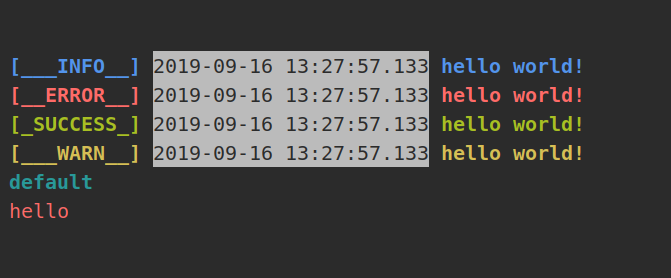
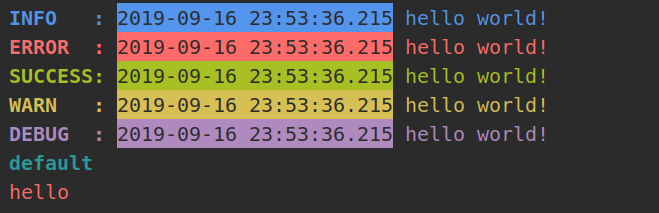
ad

diff --git a/colour_printing/custom/pen_box.py b/colour_printing/custom/pen_box.py
@@ -5,6 +5,7 @@ default_info = "info"
 default_warn = "warn"
 default_success = "success"
 default_error = "error"
+default_debug = "debug"
 
 
 class ColourPrint:
@@ -25,20 +26,24 @@ class ColourPrint:
 
     def __default_setting(self):
         self.info = Markers(default_info) \
-            .flag_style(mode=Mode.BOLD, fore=Fore.BLUE).time_style(mode=Mode.INVERT).message_style(mode=Mode.BOLD,
-                                                                                                   fore=Fore.BLUE)
+            .flag_style(mode=Mode.BOLD, fore=Fore.BLUE).time_style(mode=Mode.INVERT, fore=Fore.BLUE).message_style(
+            fore=Fore.BLUE)
 
         self.warn = Markers(default_warn) \
-            .flag_style(mode=Mode.BOLD, fore=Fore.YELLOW).time_style(mode=Mode.INVERT).message_style(mode=Mode.BOLD,
-                                                                                                     fore=Fore.YELLOW)
+            .flag_style(mode=Mode.BOLD, fore=Fore.YELLOW).time_style(mode=Mode.INVERT, fore=Fore.YELLOW).message_style(
+            fore=Fore.YELLOW)
 
         self.success = Markers(default_success) \
-            .flag_style(mode=Mode.BOLD, fore=Fore.GREEN).time_style(mode=Mode.INVERT).message_style(mode=Mode.BOLD,
-                                                                                                    fore=Fore.GREEN)
+            .flag_style(mode=Mode.BOLD, fore=Fore.GREEN).time_style(mode=Mode.INVERT, fore=Fore.GREEN).message_style(
+            fore=Fore.GREEN)
 
         self.error = Markers(default_error) \
-            .flag_style(mode=Mode.BOLD, fore=Fore.RED).time_style(mode=Mode.INVERT).message_style(mode=Mode.BOLD,
-                                                                                                  fore=Fore.RED)
+            .flag_style(mode=Mode.BOLD, fore=Fore.RED).time_style(mode=Mode.INVERT, fore=Fore.RED).message_style(
+            fore=Fore.RED)
+
+        self.debug = Markers(default_debug) \
+            .flag_style(mode=Mode.BOLD, fore=Fore.PURPLE).time_style(mode=Mode.INVERT, fore=Fore.PURPLE).message_style(
+            fore=Fore.PURPLE)
 
     def __str__(self):
         return """

diff --git a/colour_printing/custom/markers.py b/colour_printing/custom/markers.py
@@ -17,8 +17,8 @@ class Markers:
         self.__cal_flag_len()
 
     def __cal_flag_len(self):
-        if Markers.__flag_len <= len(self.__flag_name):
-            Markers.__flag_len = len(self.__flag_name) + 2
+        if Markers.__flag_len < len(self.__flag_name):
+            Markers.__flag_len = len(self.__flag_name)
 
     def message_style(self, mode='', fore='', back=''):
         self.__config[MESSAGE_STYLE] = setting(mode=mode, fore=fore, back=back)
@@ -36,7 +36,7 @@ class Markers:
         message_style = self.__config.get(MESSAGE_STYLE, setting())
         time_style = self.__config.get(TIME_STYLE, setting())
         flag_style = self.__config.get(FLAG_STYLE, setting())
-        flag = '{0}{1}{2}'.format(flag_style[0], f"[{self.__flag_name.center(self.__flag_len, '_')}]", flag_style[1])
+        flag = '{0}{1}:{2}'.format(flag_style[0], f"{self.__flag_name.ljust(self.__flag_len, ' ')}", flag_style[1])
         time = '{0}{1}{2}'.format(time_style[0], self.__get_time(), time_style[1])
         return flag, time, message_style
 

diff --git a/test/test1.py b/test/test1.py
@@ -4,11 +4,11 @@ from colour_printing import cprint
 
 class MyColour(ColourPrint):
     def custom(self):
-        self.debug = self.Markers('debug').flag_style(fore=Fore.PURPLE, mode=Mode.HIDE).time_style(
+        self.test = self.Markers('test').flag_style(fore=Fore.PURPLE, mode=Mode.HIDE).time_style(
             mode=Mode.INVERT).message_style(
             fore=Fore.YELLOW)
 
 
 echo = MyColour()
 cprint(echo, fore=Fore.CYAN)
-echo.debug('hello world!')
+echo.test('hello world!')

diff --git a/test/test2.py b/test/test2.py
@@ -1,15 +1,18 @@
+import time
+
 from colour_printing import log, Switch, cprint, Back, Fore, Mode
 
 log.info("hello world!")
+# Switch.signal=False #关闭
 
 # Switch.filter.append('SUCCESS') #过滤
 
 log.error("hello world!")
 log.success("hello world!")
 
-# Switch.signal=False #关闭
 
 log.warn("hello world!")
+log.debug("hello world!")
 # 颜料
 cprint('default')
 cprint('hello', fore=Fore.RED)

diff --git a/setup.py b/setup.py
@@ -9,7 +9,7 @@ def read(fname):
 
 setuptools.setup(
     name="colour-printing",
-    version="0.2.0",
+    version="0.2.2",
     author="faithforus",
     author_email="ljunf817@163.com",
     description="colour-printing",

diff --git a/README.rst b/README.rst
@@ -1,8 +1,8 @@
-===============
 Colour-printing
-===============
+==================
+
 以不同颜色区分终端输出信息类型，标识出重要信息
-============================================================
+==============================================
 
 Python version: 3.5+
 
@@ -12,6 +12,8 @@ Python version: 3.5+
   + success
   + error
   + warn
+  + debug
+
 - 过滤器
 
   + Switch.filter : list
@@ -19,30 +21,31 @@ Python version: 3.5+
 
   + Switch.signal : bool
 
-=====
+
 示例
 =====
 
 ::
 
-  from colour_printing import log, Switch,cprint,Back, Fore, Mode
+    from colour_printing import log, Switch, cprint, Back, Fore, Mode
 
-  log.info("hello world!")
+    log.info("hello world!")
+    # Switch.signal=False #关闭
 
-  #Switch.filter.append('SUCCESS') #过滤
+    # Switch.filter.append('SUCCESS') #过滤
 
-  log.error("hello world!")
-  log.success("hello world!")
+    log.error("hello world!")
+    log.success("hello world!")
 
-  #Switch.signal=False #关闭
 
-  log.warn("hello world!")
+    log.warn("hello world!")
+    log.debug("hello world!")
+    # 颜料
+    cprint('default')
+    cprint('hello', fore=Fore.RED)
 
-  #彩印
-  cprint('default')
-  cprint('hello',fore=Fore.RED)
 
-===========
+
 自定义style
 ===========
 
@@ -54,12 +57,17 @@ Python version: 3.5+
 
 ::
 
-  from colour_printing.custom import ColourPrint, Back, Fore, Mode
-
-  class MyColour(ColourPrint):
-      def custom(self):
-          self.debug = self.Markers('debug').flag_style(fore=Fore.PURPLE).time_style(mode=Mode.INVERT).message_style(fore=Fore.YELLOW)
+    from colour_printing.custom import ColourPrint, Back, Fore, Mode
+    from colour_printing import cprint
 
 
-  echo = MyColour()
-  echo.debug('hello world!')
+    class MyColour(ColourPrint):
+        def custom(self):
+            self.test = self.Markers('test').flag_style(fore=Fore.PURPLE, mode=Mode.HIDE).time_style(
+                mode=Mode.INVERT).message_style(
+                fore=Fore.YELLOW)
+
+
+    echo = MyColour()
+    echo.test('hello world!')
+

diff --git a/README.md b/README.md
@@ -1,7 +1,7 @@
 # Colour-printing
 以不同颜色区分终端输出信息类型，标识出重要信息
 ```
-pip install colour_printing
+pip install colour-printing
 ```
 > Support:Python 3.5+
 - 内置： 
@@ -9,27 +9,29 @@ pip install colour_printing
   - success 
   - error 
   - warn
+  - debug
 - 过滤器：
   - Switch.filter : list
 - 开关：
   - Switch.signal : bool
 #### 示例
 ```
-  from colour_printing import log, Switch,cprint,Back, Fore, Mode
-
-  log.info("hello world!")
-
-  #Switch.filter.append('SUCCESS') #过滤
-
-  log.error("hello world!")
-  log.success("hello world!")
-
-  #Switch.signal=False #关闭
-
-  log.warn("hello world!")
-  #颜料
-  cprint('default')
-  cprint('hello',fore=Fore.RED)
+    from colour_printing import log, Switch, cprint, Back, Fore, Mode
+    
+    log.info("hello world!")
+    # Switch.signal=False #关闭
+    
+    # Switch.filter.append('SUCCESS') #过滤
+    
+    log.error("hello world!")
+    log.success("hello world!")
+    
+    
+    log.warn("hello world!")
+    log.debug("hello world!")
+    # 颜料
+    cprint('default')
+    cprint('hello', fore=Fore.RED)
 
 ```
 ![image](https://github.com/Faithforus/Colour-printing/blob/master/default.png)
@@ -39,15 +41,20 @@ pip install colour_printing
   print(log)
 ```
 ```
-  from colour_printing.custom import ColourPrint, Back, Fore, Mode
+    from colour_printing.custom import ColourPrint, Back, Fore, Mode
+    from colour_printing import cprint
+    
+    
+    class MyColour(ColourPrint):
+        def custom(self):
+            self.test = self.Markers('test').flag_style(fore=Fore.PURPLE, mode=Mode.HIDE).time_style(
+                mode=Mode.INVERT).message_style(
+                fore=Fore.YELLOW)
+    
+    
+    echo = MyColour()
+    echo.test('hello world!')
 
-
-  class MyColour(ColourPrint):
-      def custom(self):
-          self.debug = self.Markers('debug').flag_style(fore=Fore.PURPLE).time_style(mode=Mode.INVERT).message_style(fore=Fore.YELLOW)
-
-  echo = MyColour()
-  echo.debug('hello world!')
 
 ```
 
